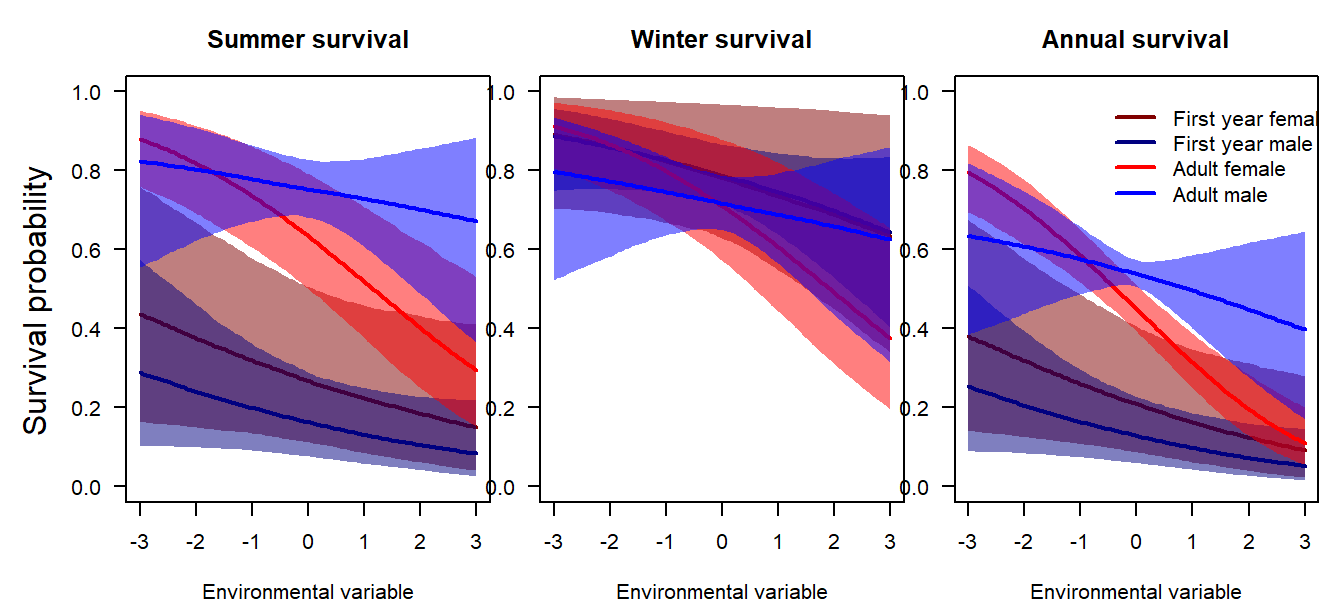
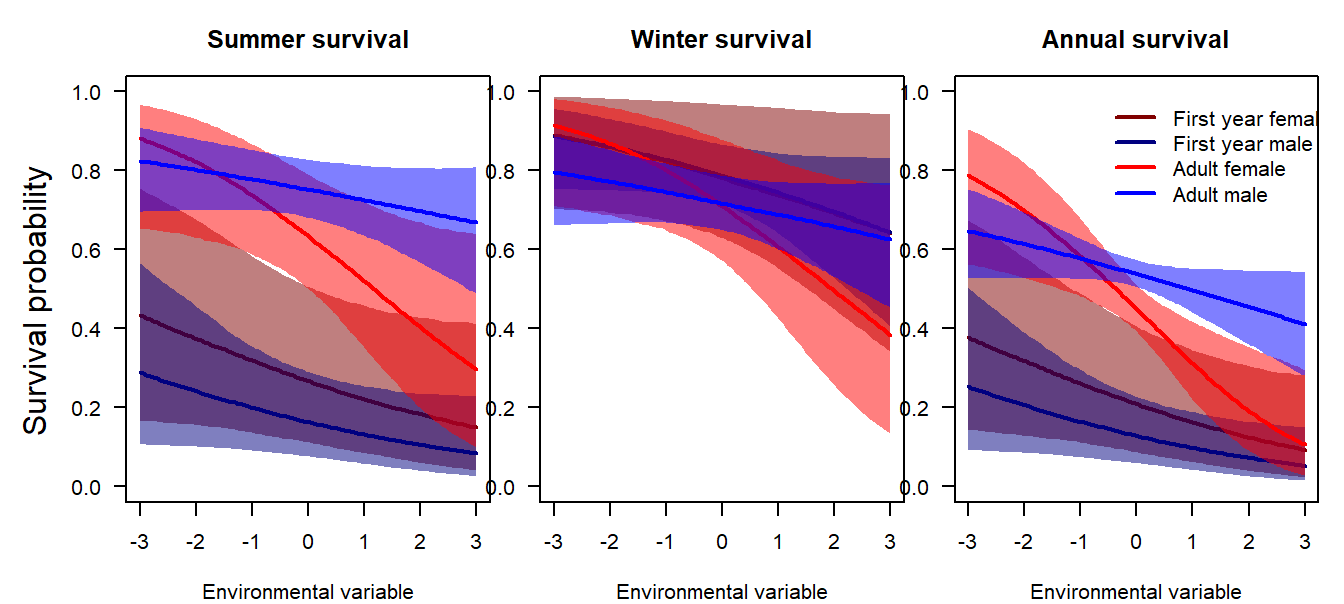
start population simulation with stable age composition

diff --git a/docs/data.html b/docs/data.html
@@ -113,6 +113,7 @@ div.csl-indent {
 <ul>
 <li class="chapter" data-level="4.1" data-path="population-model.html"><a href="population-model.html#starting-population"><i class="fa fa-check"></i><b>4.1</b> Starting population</a></li>
 <li class="chapter" data-level="4.2" data-path="population-model.html"><a href="population-model.html#run-population-trajectory"><i class="fa fa-check"></i><b>4.2</b> Run population trajectory</a></li>
+<li class="chapter" data-level="4.3" data-path="population-model.html"><a href="population-model.html#predicted-population-trajectories"><i class="fa fa-check"></i><b>4.3</b> Predicted population trajectories</a></li>
 </ul></li>
 <li class="chapter" data-level="5" data-path="references.html"><a href="references.html"><i class="fa fa-check"></i><b>5</b> References</a></li>
 </ul>
@@ -159,12 +160,12 @@ The proportion of non-breeding females is not known at all.</p>
 Figure 3.1: Reported proportion of second broods in different studies (point) with 95% uncertainty intervals. The mean (grey) is the average over all studies, taking different sample sizes into account. The sample sizes, i.e. number of females doing at least one brood, are given for each study.
 </p>
 </div>
-<p>The resulting average proportion of second broods has a high uncertainty. Its 95% uncertainty interval ranges from 0.21 to 0.97, and the mean is 0.75 (Figure <a href="data.html#fig:metanrbrood">3.1</a>).</p>
+<p>The resulting average proportion of second broods has a high uncertainty. Its 95% uncertainty interval ranges from 0.2 to 0.97, and the mean is 0.75 (Figure <a href="data.html#fig:metanrbrood">3.1</a>).</p>
 <p>For the population model, we use a proportion of non-breeding females of 0.1 in average and an uncertainty interval of 0.03 to 0.22 to account for the fact that we know little about this demographic parameter.</p>
 <p>We derive the two intercepts of a multinomial model from the proportion of non-breeders and the proportion of females with second broods among the breeding females using Monte Carlo simulations to propagate the uncertainty. The proportions (of non-breeders, females with one and two broods) defined by the intercepts are used for average temperature values.</p>
 <p>Citizen science data (ornitho.ch) from the last 20 yeara revealed that the Snowfinch breeding season started already mid May when June temperatures were high and it started mid June, when June temperatures were low (Niffenegger in prep.). Also, we saw a variation in the ending of the breeding season depending on July temperature. The warmer in July, the earlier breeding ended. Thus, both June and July temperature may finally affect the number of broods in total by one brood (for which around one month is needed) along their ranges of values. We derive effect sizes for June and July temperature that correspond to a change by one brood from the lowest to the highest temperature values.</p>
-<div class="figure"><span style="display:block;" id="fig:unnamed-chunk-3"></span>
-<img src="predictive_model_files/figure-html/unnamed-chunk-3-1.png" alt="Proportion of females with 0, 1 or 2 broods. The 95% uncertainty intervals are indicatd with white dotted lines. They visualise the lack of knowledge on the proportion of breeders and the proportion of second broods, as well as the uncertainty in the temperature effects." width="672" />
+<div class="figure"><span style="display:block;" id="fig:funnrbrood"></span>
+<img src="predictive_model_files/figure-html/funnrbrood-1.png" alt="Proportion of females with 0, 1 or 2 broods. The 95% uncertainty intervals are indicatd with white dotted lines. They visualise the lack of knowledge on the proportion of breeders and the proportion of second broods, as well as the uncertainty in the temperature effects." width="672" />
 <p class="caption">
 Figure 3.2: Proportion of females with 0, 1 or 2 broods. The 95% uncertainty intervals are indicatd with white dotted lines. They visualise the lack of knowledge on the proportion of breeders and the proportion of second broods, as well as the uncertainty in the temperature effects.
 </p>
@@ -186,11 +187,11 @@ Figure 3.3: Number of fledglings in relation to the date when the first egg of t
 <h3><span class="header-section-number">3.2.3</span> Survival<a href="data.html#survival" class="anchor-section" aria-label="Anchor link to header"></a></h3>
 <div id="literature-view-on-survival-estimates-for-snowfinches" class="section level4 hasAnchor" number="3.2.3.1">
 <h4><span class="header-section-number">3.2.3.1</span> Literature view on survival estimates for Snowfinches<a href="data.html#literature-view-on-survival-estimates-for-snowfinches" class="anchor-section" aria-label="Anchor link to header"></a></h4>
-<p>There is, as far as we know, only one published study on apparent survival in Snowfinches from the Appennine <span class="citation">(<a href="#ref-Strinella.2020">Eliseo Strinella et al. 2020</a>)</span>. The mark-recapture study took place between 2003 and 2017, and a couple of different mark-recapture models accounting for transients <span class="citation">(<a href="#ref-Pradel.1997">R. Pradel et al. 1997</a>)</span> were used to estimate annual apparent survival. Depending on the model used, they found annual apparent survival to be between 0.51 and 0.64 for adult females, between 0.44 and 0.54 for adult males and between 0.09 and 0.13 for first year birds. In addition, they found a strong negative correlation between apparent annual survival of adult females and average temperature during the breeding season. In the Austrian Alps, Ambros Aichhorn regularly ringed Snowfinches between 1964 and 2004 in winter. Also in these data, a strong negative correlation between temperature during the breeding season and female apparent survival is visible (own analyses in prep.). The average apparent annual survival was 0.63 (95% 0.56 - 0.70) in males and 0.50 (0.36 - 0.64) in females <span class="citation">(<a href="#ref-zauner_apparent_2022">Zauner 2022</a>)</span>.</p>
+<p>There is, as far as we know, only one published study on apparent survival in Snowfinches. It is from the Appennines <span class="citation">(<a href="#ref-Strinella.2020">Eliseo Strinella et al. 2020</a>)</span>. The mark-recapture study took place between 2003 and 2017, and a couple of different mark-recapture models accounting for transients <span class="citation">(<a href="#ref-Pradel.1997">R. Pradel et al. 1997</a>)</span> were used to estimate annual apparent survival. Depending on the model used, they found annual apparent survival to be between 0.51 and 0.64 for adult females, between 0.44 and 0.54 for adult males and between 0.09 and 0.13 for first year birds. In addition, they found a strong negative correlation between apparent annual survival of adult females and average temperature during the breeding season. In the Austrian Alps, Ambros Aichhorn regularly ringed Snowfinches between 1964 and 2004 in winter. Also, in these data, a strong negative correlation between temperature during the breeding season and female apparent survival is visible (own analyses in prep.). The average apparent annual survival was 0.63 (95% 0.56 - 0.70) in males and 0.50 (0.36 - 0.64) in females <span class="citation">(<a href="#ref-zauner_apparent_2022">Zauner 2022</a>)</span>.</p>
 </div>
 <div id="own-data-on-survival" class="section level4 hasAnchor" number="3.2.3.2">
 <h4><span class="header-section-number">3.2.3.2</span> Own data on survival<a href="data.html#own-data-on-survival" class="anchor-section" aria-label="Anchor link to header"></a></h4>
-<p>In the project at the Swiss Ornithological Institute, we are marking individuals between since May 2015 and we perform systematic searches for marked individuals. Until August 2023 we collected over 8000 resightings and over 900 recaptures (Fig. <a href="data.html#fig:dataprepsurv">3.4</a>). Here, we present first, preliminary, analyses of those data and analyses results. The results are far from being perfect. The analyses serve to get an impression on how well we can estimate apparent survival, to identify gaps in the data and lack of knowledge, so that we can better plan our future research activities.</p>
+<p>In the project at the Swiss Ornithological Institute, we are marking individuals since May 2015 and we perform systematic searches for marked individuals. Until August 2023 we collected over 8000 resightings and over 900 recaptures (Fig. <a href="data.html#fig:dataprepsurv">3.4</a>). Here, we present first, preliminary, analyses of those data and analyses results. The results are far from being perfect, but they serve to get an impression on how well we can estimate apparent survival, to identify gaps in the data and lack of knowledge, so that we can better plan our future research activities.</p>
 <div class="figure"><span style="display:block;" id="fig:dataprepsurv"></span>
 <img src="figures/CH_Snowfinch.jpg" alt="Marking- and capture/resighting data of Snowfinches in the project of the Swiss Ornithological Institute. Individuals are presented on the y-axis, the time is given on the x-axis. Dots are captures (blue as nestling, orange as fledged bird), open circles are resightings and brown crosses are findings of dead birds. Horizontal lines connect recaptures, resightings or findings of the same individual." width="3000" />
 <p class="caption">
@@ -218,10 +219,10 @@ Figure 3.4: Marking- and capture/resighting data of Snowfinches in the project o
 <ul>
 <li><p>Probability that a plastic ring is lost varies among ring series. A random factor for the ring series could be added as predictor for re-sighting probability <span class="math inline">\(p^*\)</span>.</p></li>
 <li><p>Many individuals are first captured in winter which makes it likely that our data contains a high amount of so-called transients, i.e. individuals that are marked and then move away from our study site. It could be accounted for such transients in the model.</p></li>
-<li><p>No among-year variance in apparent survival is yet included in the model.</p></li>
-<li><p>No among-individual variance in apparent survival nor in recapture/resighting probability other than age and sex is included in the model yet.</p></li>
+<li><p>Among-year variance in apparent survival is not yet included in the model.</p></li>
+<li><p>Among-individual variance in either apparent survival or in recapture/resighting probability other than age and sex is not yet included in the model.</p></li>
 <li><p>First year birds are only treated as first year birds until December. Later, it is assumed that apparent survival of these birds is equal to adults (see below).</p></li>
-<li><p>Resightings made outside our study area could be used to model movements and, consequently, we could get closer to true instead of apparent survival.</p></li>
+<li><p>Resightings made outside our study area (currently 25 cases) could be used to model movements and, consequently, we could get closer to true instead of apparent survival.</p></li>
 </ul>
 <p>We are happy to hear of further thoughts and ideas on how to improve the survival estimation.</p>
 <p>We fitted the model using Markov chain Monte Carlo simulations as implemented in Jags <span class="citation">(<a href="#ref-Plummer2003">Plummer 2003</a>)</span>. The Jags code is provided in the code repository of this Github project.</p>
@@ -231,7 +232,7 @@ Figure 3.4: Marking- and capture/resighting data of Snowfinches in the project o
 Figure 3.5: Three-months apparent survival estimates for juvenile (first half year) and adult Snowfinches in the Swiss Alps. Vertical bars are 95% intervals of the posterior distributions.
 </p>
 </div>
-<p>The preliminary results indicate that adult apparent survival is lowest in late winter and may be lower in females compared to males in late summer. Apparent survival of the freshly fledged birds in late summer may be underestimated because we assume that during the second half of their first year, their apparent survival equals adult apparent survival, which may not be true. However, after the post-juvenile moult in late summer, first year and older birds are no longer distinguisable. Therefore, of birds captured for the first time in winter, we only know that they are at least half a year old. To be able to estimate separate first year apparent survival for the whole first year, we would need to deal with unidentified ages.</p>
+<p>Our preliminary results indicate that adult apparent survival is lowest in late winter. Survival may be lower in females compared to males in late summer. Apparent survival of the freshly fledged birds in late summer may be underestimated because we assume that during the second half of their first year, their apparent survival equals adult apparent survival, which may not be true. However, after the post-juvenile moult in late summer, first year and older birds are no longer distinguishable. Therefore, we only know of birds captured for the first time in winter, that they are at least half a year old. To be able to separately estimate first year apparent survival for the whole first year, we would need to deal with unidentified ages.</p>
 <p>From our preliminary model, we get an annual apparent survival estimate for adult females of 0.45 (95% CrI: 0.39 - 0.51), for adult males 0.54 (0.51 - 0.57), and of first year females 0.14 (0.06 - 0.29), and for first year males 0.09 (0.04 - 0.16).</p>
 <table>
 <caption>Half-year apparent survival estimates (preliminary results). Note, winter apparent survival of first years is assumed to be equal to adult apparent survival.</caption>
@@ -279,7 +280,7 @@ Figure 3.5: Three-months apparent survival estimates for juvenile (first half ye
 </div>
 <div id="survival-function-of-the-predictive-population-model" class="section level4 hasAnchor" number="3.2.3.3">
 <h4><span class="header-section-number">3.2.3.3</span> Survival function of the predictive population model<a href="data.html#survival-function-of-the-predictive-population-model" class="anchor-section" aria-label="Anchor link to header"></a></h4>
-<p>From the survival analyses that are available up to now, we collated a survival function that produces a survival probability for summer and winter for each age and sex class dependent on a standardised environmental variable (Fig. <a href="data.html#fig:survivalfunctions">3.6</a>). Intercepts are taken from the analyses of our own data (presented above) and effect of the environmental variables are taken from the long-term data from Austria <span class="citation">(<a href="#ref-zauner_apparent_2022">Zauner 2022</a>)</span>. For every run of the population model, we draw a random intercept and slope for each age and sex class and we keep that values for the whole population trajectory. In this way, the uncertainty of survival propagates into the uncertainty of the population trajectory.</p>
+<p>From the survival analyses that are available up to now, we collated a survival function that produces a survival probability for summer and winter for each age and sex class dependent on a standardised environmental variable (Fig. <a href="data.html#fig:survivalfunctions">3.6</a>). Intercepts are taken from the analyses of our own data (presented above) and effect of the environmental variables are taken from the long-term data from Austria <span class="citation">(<a href="#ref-zauner_apparent_2022">Zauner 2022</a>)</span>. For every run of the population model, we draw a random intercept and slope for each age and sex class and we keep these values for the whole population trajectory. In this way, the uncertainty of survival propagates into the uncertainty of the population trajectory.</p>
 <div class="figure"><span style="display:block;" id="fig:survivalfunctions"></span>
 <img src="predictive_model_files/figure-html/survivalfunctions-1.png" alt="Survival function used in the predictive population model." width="672" />
 <p class="caption">

diff --git a/docs/population-model.html b/docs/population-model.html
@@ -113,6 +113,7 @@ div.csl-indent {
 <ul>
 <li class="chapter" data-level="4.1" data-path="population-model.html"><a href="population-model.html#starting-population"><i class="fa fa-check"></i><b>4.1</b> Starting population</a></li>
 <li class="chapter" data-level="4.2" data-path="population-model.html"><a href="population-model.html#run-population-trajectory"><i class="fa fa-check"></i><b>4.2</b> Run population trajectory</a></li>
+<li class="chapter" data-level="4.3" data-path="population-model.html"><a href="population-model.html#predicted-population-trajectories"><i class="fa fa-check"></i><b>4.3</b> Predicted population trajectories</a></li>
 </ul></li>
 <li class="chapter" data-level="5" data-path="references.html"><a href="references.html"><i class="fa fa-check"></i><b>5</b> References</a></li>
 </ul>
@@ -136,19 +137,23 @@ div.csl-indent {
 <h1><span class="header-section-number">4</span> Population model<a href="population-model.html#population-model" class="anchor-section" aria-label="Anchor link to header"></a></h1>
 <div id="starting-population" class="section level2 hasAnchor" number="4.1">
 <h2><span class="header-section-number">4.1</span> Starting population<a href="population-model.html#starting-population" class="anchor-section" aria-label="Anchor link to header"></a></h2>
-<p>We start with a population just before the breeding season with 1000 adult females, 1000 adult males and 100 first year birds of each sex.</p>
+<p>We start with a population of 7000 individuals just before the breeding season (pre-breeding cencus) consisting of 1000 adult females, 1000 adult males and each 2500 first year males and females. The age composition corresponds to a stable age structure of a population with a fecundity of 2.5, first year survival of 0.2 and adult survival of 0.5.</p>
 </div>
 <div id="run-population-trajectory" class="section level2 hasAnchor" number="4.2">
 <h2><span class="header-section-number">4.2</span> Run population trajectory<a href="population-model.html#run-population-trajectory" class="anchor-section" aria-label="Anchor link to header"></a></h2>
 <p>To simulate the population trajectory, we follow the structure presented in Figure <a href="introduction.html#fig:modelstr">2.2</a>. The steps are the following:</p>
 <ol style="list-style-type: decimal">
 <li><p>Build breeding pairs: With the females and males present in the population, the breeding pairs are formed. The number of brereding pairs corresponds to the minimum of the number of males and females.</p></li>
-<li><p>The number of broods per breeding pair is simulated based on the temperature early and late in the breeding season.</p></li>
-<li><p>Number of fledglings per brood is simulated based on the date of the brood.</p></li>
-<li><p>Summer and winter survival is simulated for each individual and the simulations started at step 1. with the individuals that survived until the beginning of the following breeding season.</p></li>
+<li><p>The number of broods per breeding pair is simulated based on the temperature early and late in the breeding season according to Figure <a href="data.html#fig:funnrbrood">3.2</a>. At this step, a certain proportion of pairs are assigned to be non-breeders (number of broods is zero).</p></li>
+<li><p>Number of fledglings per brood is simulated based on the date of the brood (Figure <a href="data.html#fig:nrfeldglings">3.3</a>). To keep the model simple for the moment, we assume that the first broods hatch at day 162 and the second broods at day 190.</p></li>
+<li><p>Summer and winter survival is simulated for each individual assuming a survival probability defined by the functions visualised in Figure <a href="data.html#fig:survivalfunctions">3.6</a>.</p></li>
+<li><p>The simulation proceeds wit step 1. with the individuals that survived until the beginning of the following breeding season.</p></li>
 </ol>
-<div class="figure"><span style="display:block;" id="fig:vispop"></span>
-<img src="predictive_model_files/figure-html/vispop-1.png" alt="90% range of simulated population trajectories based on current knowledge on demographic parameters. The variance in the trajectories reflects current uncertainties of demographic parameters." width="672" />
+</div>
+<div id="predicted-population-trajectories" class="section level2 hasAnchor" number="4.3">
+<h2><span class="header-section-number">4.3</span> Predicted population trajectories<a href="population-model.html#predicted-population-trajectories" class="anchor-section" aria-label="Anchor link to header"></a></h2>
+<div class="figure"><span style="display:block;" id="fig:vispopcurrentknow"></span>
+<img src="predictive_model_files/figure-html/vispopcurrentknow-1.png" alt="90% range of simulated population trajectories based on current knowledge on demographic parameters. The variance in the trajectories reflects current uncertainties of demographic parameters." width="672" />
 <p class="caption">
 Figure 4.1: 90% range of simulated population trajectories based on current knowledge on demographic parameters. The variance in the trajectories reflects current uncertainties of demographic parameters.
 </p>

diff --git a/docs/404.html b/docs/404.html
@@ -113,6 +113,7 @@ div.csl-indent {
 <ul>
 <li class="chapter" data-level="4.1" data-path="population-model.html"><a href="population-model.html#starting-population"><i class="fa fa-check"></i><b>4.1</b> Starting population</a></li>
 <li class="chapter" data-level="4.2" data-path="population-model.html"><a href="population-model.html#run-population-trajectory"><i class="fa fa-check"></i><b>4.2</b> Run population trajectory</a></li>
+<li class="chapter" data-level="4.3" data-path="population-model.html"><a href="population-model.html#predicted-population-trajectories"><i class="fa fa-check"></i><b>4.3</b> Predicted population trajectories</a></li>
 </ul></li>
 <li class="chapter" data-level="5" data-path="references.html"><a href="references.html"><i class="fa fa-check"></i><b>5</b> References</a></li>
 </ul>

diff --git a/docs/index.html b/docs/index.html
@@ -113,6 +113,7 @@ div.csl-indent {
 <ul>
 <li class="chapter" data-level="4.1" data-path="population-model.html"><a href="population-model.html#starting-population"><i class="fa fa-check"></i><b>4.1</b> Starting population</a></li>
 <li class="chapter" data-level="4.2" data-path="population-model.html"><a href="population-model.html#run-population-trajectory"><i class="fa fa-check"></i><b>4.2</b> Run population trajectory</a></li>
+<li class="chapter" data-level="4.3" data-path="population-model.html"><a href="population-model.html#predicted-population-trajectories"><i class="fa fa-check"></i><b>4.3</b> Predicted population trajectories</a></li>
 </ul></li>
 <li class="chapter" data-level="5" data-path="references.html"><a href="references.html"><i class="fa fa-check"></i><b>5</b> References</a></li>
 </ul>

diff --git a/docs/introduction.html b/docs/introduction.html
@@ -113,6 +113,7 @@ div.csl-indent {
 <ul>
 <li class="chapter" data-level="4.1" data-path="population-model.html"><a href="population-model.html#starting-population"><i class="fa fa-check"></i><b>4.1</b> Starting population</a></li>
 <li class="chapter" data-level="4.2" data-path="population-model.html"><a href="population-model.html#run-population-trajectory"><i class="fa fa-check"></i><b>4.2</b> Run population trajectory</a></li>
+<li class="chapter" data-level="4.3" data-path="population-model.html"><a href="population-model.html#predicted-population-trajectories"><i class="fa fa-check"></i><b>4.3</b> Predicted population trajectories</a></li>
 </ul></li>
 <li class="chapter" data-level="5" data-path="references.html"><a href="references.html"><i class="fa fa-check"></i><b>5</b> References</a></li>
 </ul>

diff --git a/docs/references.html b/docs/references.html
@@ -113,6 +113,7 @@ div.csl-indent {
 <ul>
 <li class="chapter" data-level="4.1" data-path="population-model.html"><a href="population-model.html#starting-population"><i class="fa fa-check"></i><b>4.1</b> Starting population</a></li>
 <li class="chapter" data-level="4.2" data-path="population-model.html"><a href="population-model.html#run-population-trajectory"><i class="fa fa-check"></i><b>4.2</b> Run population trajectory</a></li>
+<li class="chapter" data-level="4.3" data-path="population-model.html"><a href="population-model.html#predicted-population-trajectories"><i class="fa fa-check"></i><b>4.3</b> Predicted population trajectories</a></li>
 </ul></li>
 <li class="chapter" data-level="5" data-path="references.html"><a href="references.html"><i class="fa fa-check"></i><b>5</b> References</a></li>
 </ul>

diff --git a/docs/predictive_model.md b/docs/predictive_model.md
@@ -70,7 +70,7 @@ We use a hierarchical meta-analysis to combine the information from the differen
 <p class="caption">(\#fig:metanrbrood)Reported proportion of second broods in different studies (point) with 95% uncertainty intervals. The mean (grey) is the average over all studies, taking different sample sizes into account. The sample sizes, i.e. number of females doing at least one brood, are given for each study.</p>
 </div>
 
-The resulting average proportion of second broods has a high uncertainty. Its 95% uncertainty interval ranges from 0.21 to  0.97, and the mean is 0.75 (Figure \@ref(fig:metanrbrood)).
+The resulting average proportion of second broods has a high uncertainty. Its 95% uncertainty interval ranges from 0.2 to  0.97, and the mean is 0.75 (Figure \@ref(fig:metanrbrood)).
 
 
 For the population model, we use a proportion of non-breeding females of 0.1 in average and an uncertainty interval of 0.03 to 0.22 to account for the fact that we know little about this demographic parameter. 
@@ -83,8 +83,8 @@ Citizen science data (ornitho.ch) from the last 20 yeara revealed that the Snowf
 
 
 <div class="figure">
-<img src="predictive_model_files/figure-html/unnamed-chunk-3-1.png" alt="Proportion of females with 0, 1 or 2 broods. The 95% uncertainty intervals are indicatd with white dotted lines. They visualise the lack of knowledge on the proportion of breeders and the proportion of second broods, as well as the uncertainty in the temperature effects." width="672" />
-<p class="caption">(\#fig:unnamed-chunk-3)Proportion of females with 0, 1 or 2 broods. The 95% uncertainty intervals are indicatd with white dotted lines. They visualise the lack of knowledge on the proportion of breeders and the proportion of second broods, as well as the uncertainty in the temperature effects.</p>
+<img src="predictive_model_files/figure-html/funnrbrood-1.png" alt="Proportion of females with 0, 1 or 2 broods. The 95% uncertainty intervals are indicatd with white dotted lines. They visualise the lack of knowledge on the proportion of breeders and the proportion of second broods, as well as the uncertainty in the temperature effects." width="672" />
+<p class="caption">(\#fig:funnrbrood)Proportion of females with 0, 1 or 2 broods. The 95% uncertainty intervals are indicatd with white dotted lines. They visualise the lack of knowledge on the proportion of breeders and the proportion of second broods, as well as the uncertainty in the temperature effects.</p>
 </div>
 
 
@@ -110,11 +110,11 @@ For simulating the population trajectory, we draw for every brood the number of 
 
 #### Literature view on survival estimates for Snowfinches
 
-There is, as far as we know, only one published study on apparent survival in Snowfinches from the Appennine [@Strinella.2020]. The mark-recapture study took place between 2003 and 2017, and a couple of different mark-recapture models accounting for transients [@Pradel.1997] were used to estimate annual apparent survival. Depending on the model used, they found annual apparent survival to be between 0.51 and 0.64 for adult females, between 0.44 and 0.54 for adult males and between 0.09 and 0.13 for first year birds. In addition, they found a strong negative correlation between apparent annual survival of adult females and average temperature during the breeding season. In the Austrian Alps, Ambros Aichhorn regularly ringed Snowfinches between 1964 and 2004 in winter. Also in these data, a strong negative correlation between temperature during the breeding season and female apparent survival is visible (own analyses in prep.). The average apparent annual survival was 0.63 (95% 0.56 -  0.70) in males and 0.50 (0.36 - 0.64) in females [@zauner_apparent_2022].
+There is, as far as we know, only one published study on apparent survival in Snowfinches. It is from the Appennines [@Strinella.2020]. The mark-recapture study took place between 2003 and 2017, and a couple of different mark-recapture models accounting for transients [@Pradel.1997] were used to estimate annual apparent survival. Depending on the model used, they found annual apparent survival to be between 0.51 and 0.64 for adult females, between 0.44 and 0.54 for adult males and between 0.09 and 0.13 for first year birds. In addition, they found a strong negative correlation between apparent annual survival of adult females and average temperature during the breeding season. In the Austrian Alps, Ambros Aichhorn regularly ringed Snowfinches between 1964 and 2004 in winter. Also, in these data, a strong negative correlation between temperature during the breeding season and female apparent survival is visible (own analyses in prep.). The average apparent annual survival was 0.63 (95% 0.56 -  0.70) in males and 0.50 (0.36 - 0.64) in females [@zauner_apparent_2022].
 
 #### Own data on survival
 
-In the project at the Swiss Ornithological Institute, we are marking individuals between since May 2015 and we perform systematic searches for marked individuals. Until August 2023 we collected over 8000 resightings and over 900 recaptures (Fig. \@ref(fig:dataprepsurv)). Here, we present first, preliminary, analyses of those data and analyses results. The results are far from being perfect. The analyses serve to get an impression on how well we can estimate apparent survival, to identify gaps in the data and lack of knowledge, so that we can better plan our future research activities. 
+In the project at the Swiss Ornithological Institute, we are marking individuals since May 2015 and we perform systematic searches for marked individuals. Until August 2023 we collected over 8000 resightings and over 900 recaptures (Fig. \@ref(fig:dataprepsurv)). Here, we present first, preliminary, analyses of those data and analyses results. The results are far from being perfect, but they serve to get an impression on how well we can estimate apparent survival, to identify gaps in the data and lack of knowledge, so that we can better plan our future research activities. 
 
 <div class="figure">
 <img src="figures/CH_Snowfinch.jpg" alt="Marking- and capture/resighting data of Snowfinches in the project of the Swiss Ornithological Institute. Individuals are presented on the y-axis, the time is given on the x-axis. Dots are captures (blue as nestling, orange as fledged bird), open circles are resightings and brown crosses are findings of dead birds. Horizontal lines connect recaptures, resightings or findings of the same individual." width="3000" />
@@ -149,13 +149,13 @@ The preliminary results presented here, need to be handled with care because imp
 
 - Many individuals are first captured in winter which makes it likely that our data contains a high amount of so-called transients, i.e. individuals that are marked and then move away from our study site. It could be accounted for such transients in the model.  
 
-- No among-year variance in apparent survival is yet included in the model.  
+- Among-year variance in apparent survival is not yet included in the model.  
 
-- No among-individual variance in apparent survival nor in recapture/resighting probability other than age and sex is included in the model yet.  
+- Among-individual variance in either apparent survival or in recapture/resighting probability other than age and sex is not yet included in the model.  
 
 - First year birds are only treated as first year birds until December. Later, it is assumed that apparent survival of these birds is equal to adults (see below).  
 
-- Resightings made outside our study area could be used to model movements and, consequently, we could get closer to true instead of apparent survival. 
+- Resightings made outside our study area (currently 25 cases) could be used to model movements and, consequently, we could get closer to true instead of apparent survival. 
 
 
 We are happy to hear of further thoughts and ideas on how to improve the survival estimation. 
@@ -168,7 +168,7 @@ We fitted the model using Markov chain Monte Carlo simulations as implemented in
 <p class="caption">(\#fig:survest)Three-months apparent survival estimates for juvenile (first half year) and adult Snowfinches in the Swiss Alps. Vertical bars are 95% intervals of the posterior distributions.</p>
 </div>
 
-The preliminary results indicate that adult apparent survival is lowest in late winter and may be lower in females compared to males in late summer. Apparent survival of the freshly fledged birds in late summer may be underestimated because we assume that during the second half of their first year, their apparent survival equals adult apparent survival, which may not be true. However, after the post-juvenile moult in late summer, first year and older birds are no longer distinguisable. Therefore, of birds captured for the first time in winter, we only know that they are at least half a year old. To be able to estimate separate first year apparent survival for the whole first year, we would need to deal with unidentified ages. 
+Our preliminary results indicate that adult apparent survival is lowest in late winter. Survival may be lower in females compared to males in late summer. Apparent survival of the freshly fledged birds in late summer may be underestimated because we assume that during the second half of their first year, their apparent survival equals adult apparent survival, which may not be true. However, after the post-juvenile moult in late summer, first year and older birds are no longer distinguishable. Therefore, we only know of birds captured for the first time in winter, that they are at least half a year old. To be able to separately estimate first year apparent survival for the whole first year, we would need to deal with unidentified ages. 
 
 
 
@@ -186,7 +186,7 @@ Table: Half-year apparent survival estimates (preliminary results). Note, winter
 
 #### Survival function of the predictive population model
 
-From the survival analyses that are available up to now, we collated a survival function that produces a survival probability for summer and winter for each age and sex class dependent on a standardised environmental variable (Fig. \@ref(fig:survivalfunctions)). Intercepts are taken from the analyses of our own data (presented above) and effect of the environmental variables are taken from the long-term data from Austria [@zauner_apparent_2022]. For every run of the population model, we draw a random intercept and slope for each age and sex class and we keep that values for the whole population trajectory. In this way, the uncertainty of survival propagates into the uncertainty of the population trajectory. 
+From the survival analyses that are available up to now, we collated a survival function that produces a survival probability for summer and winter for each age and sex class dependent on a standardised environmental variable (Fig. \@ref(fig:survivalfunctions)). Intercepts are taken from the analyses of our own data (presented above) and effect of the environmental variables are taken from the long-term data from Austria [@zauner_apparent_2022]. For every run of the population model, we draw a random intercept and slope for each age and sex class and we keep these values for the whole population trajectory. In this way, the uncertainty of survival propagates into the uncertainty of the population trajectory. 
 
 
 <div class="figure">
@@ -199,7 +199,8 @@ From the survival analyses that are available up to now, we collated a survival 
 
 ## Starting population
 
-We start with a population just before the breeding season with 1000 adult females, 1000 adult males and 100 first year birds of each sex. 
+We start with a population of 7000 individuals just before the breeding season (pre-breeding cencus) consisting of 1000 adult females, 1000 adult males and each 2500 first year males and females. The age composition corresponds to a stable age structure of a population with a fecundity of 2.5, first year survival of 0.2 and adult survival of 0.5. 
+
 
 
 
@@ -210,22 +211,25 @@ To simulate the population trajectory, we follow the structure presented in Figu
 
 1. Build breeding pairs: With the females and  males present in the population, the breeding pairs are formed. The number of brereding pairs corresponds to the minimum of the number of males and females.  
 
-2. The number of broods per breeding pair is simulated based on the temperature early and late in the breeding season.   
+2. The number of broods per breeding pair is simulated based on the temperature early and late in the breeding season according to Figure \@ref(fig:funnrbrood). At this step, a certain proportion of pairs are assigned to be non-breeders (number of broods is zero).    
 
-3. Number of fledglings per brood is simulated based on the date of the brood.   
+3. Number of fledglings per brood is simulated based on the date of the brood (Figure \@ref(fig:nrfeldglings)). To keep the model simple for the moment, we assume that the first broods hatch at day 162 and the second broods at day 190.
 
-4. Summer and winter survival is simulated for each individual and the simulations started at step 1. with the individuals that survived until the beginning of the following breeding season.  
+4. Summer and winter survival is simulated for each individual assuming a survival probability defined by the functions visualised in Figure \@ref(fig:survivalfunctions). 
 
-
-
-
+5. The simulation proceeds wit step 1. with the individuals that survived until the beginning of the following breeding season.  
 
 
 
+
+
+
+
+## Predicted population trajectories
 
 <div class="figure">
-<img src="predictive_model_files/figure-html/vispop-1.png" alt="90% range of simulated population trajectories based on current knowledge on demographic parameters. The variance in the trajectories reflects current uncertainties of demographic parameters." width="672" />
-<p class="caption">(\#fig:vispop)90% range of simulated population trajectories based on current knowledge on demographic parameters. The variance in the trajectories reflects current uncertainties of demographic parameters.</p>
+<img src="predictive_model_files/figure-html/vispopcurrentknow-1.png" alt="90% range of simulated population trajectories based on current knowledge on demographic parameters. The variance in the trajectories reflects current uncertainties of demographic parameters." width="672" />
+<p class="caption">(\#fig:vispopcurrentknow)90% range of simulated population trajectories based on current knowledge on demographic parameters. The variance in the trajectories reflects current uncertainties of demographic parameters.</p>
 </div>
 
 # References
